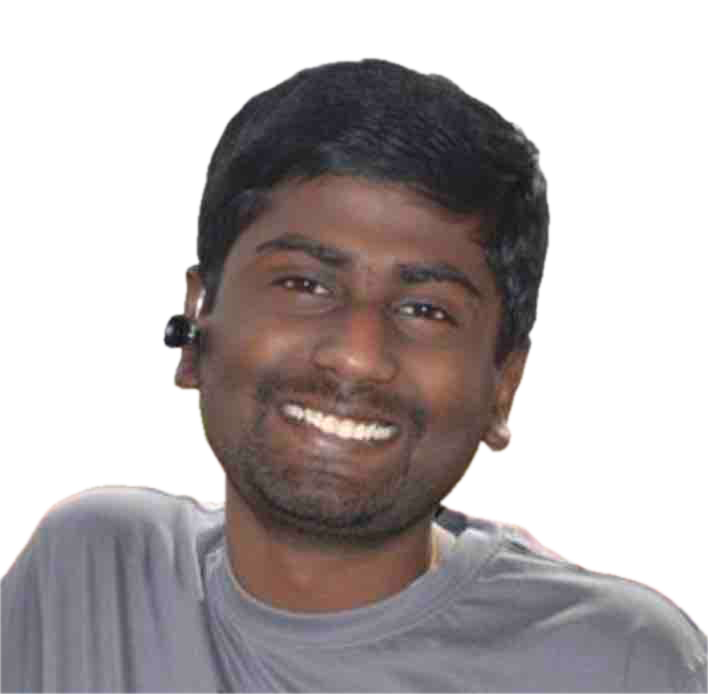
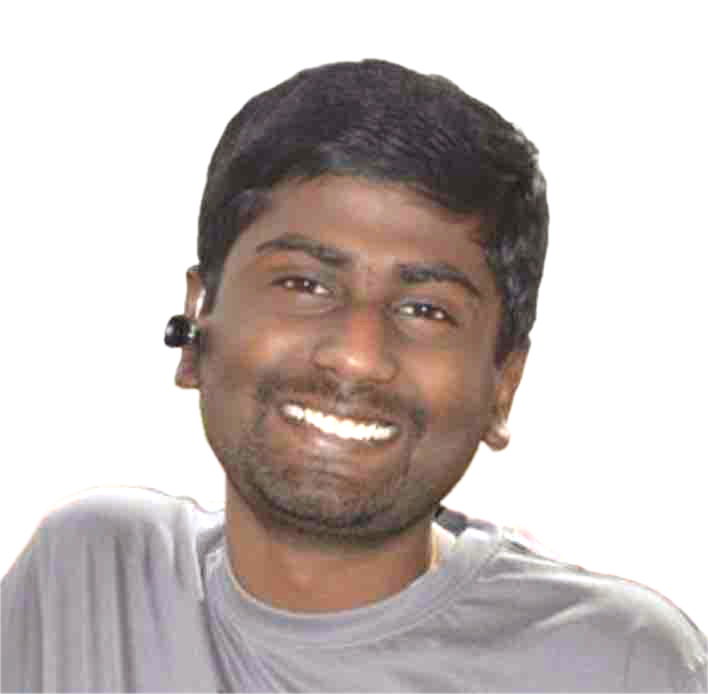
j

diff --git a/components/testimony.html b/components/testimony.html
@@ -112,7 +112,7 @@
         href="https://www.linkedin.com/in/balamurugan-natarajan-59678388/"
       >
         <div class="profile-image">
-          <img src="/images/people/bala.jpeg" alt="Balamurugan" />
+          <img src="/images/people/bala.jpg" alt="Balamurugan" />
         </div>
         <div class="profile-info">
           <h3>Balamurugan</h3>
